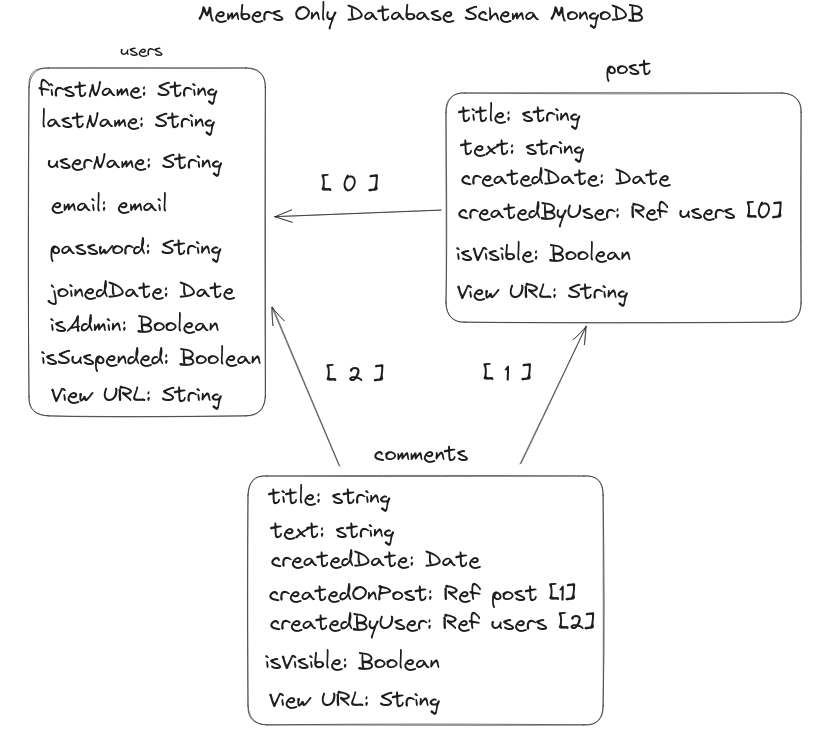
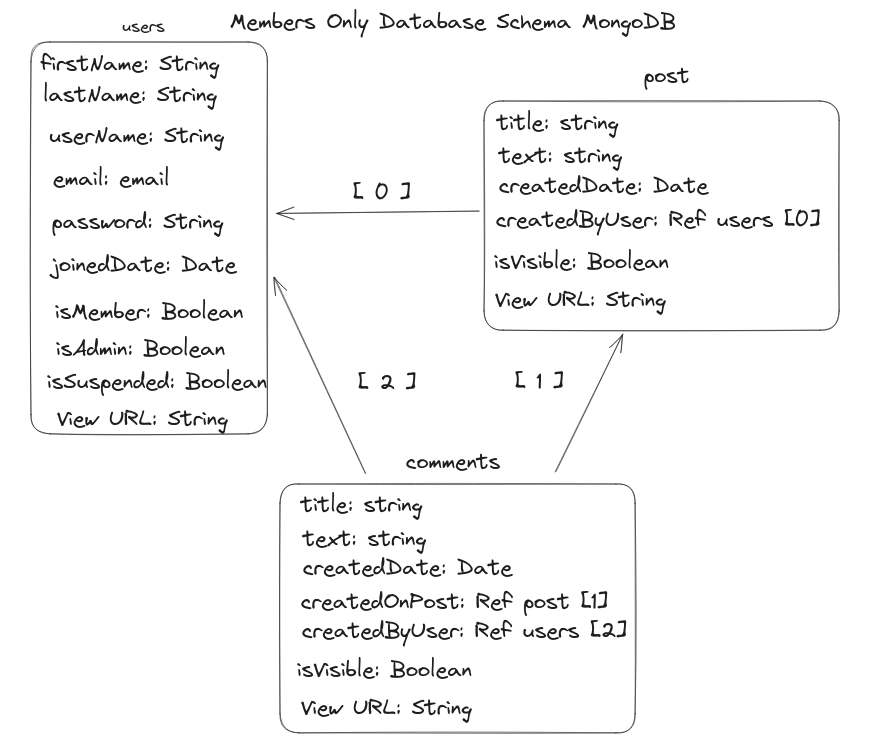
Add loginController and clean up code

Changed region(s): [[0.0302, 0.0, 0.965, 0.5897], [0.3016, 0.5587, 0.7539, 0.9933], [0.3619, 0.4966, 0.4825, 0.5897]]

diff --git a/controller/loginController.js b/controller/loginController.js
@@ -32,29 +32,31 @@ exports.loginPost = asyncHandler(async function (req, res, next) {
     .escape();
 
   passport.authenticate("local", {
-    successRedirect: "/",
-    failureRedirect: "/",
+    successRedirect: "/dashboard",
+    failureRedirect: "/login",
   });
 
-  // Extract the validation errors from a request.
-  const errors = validationResult(req);
+  // // Extract the validation errors from a request.
+  // const errors = validationResult(req);
 
-  const user = {
-    username: req.body.username,
-    password: req.body.username,
-  };
+  // const user = {
+  //   username: req.body.username,
+  //   password: req.body.username,
+  // };
 
-  if (!errors.isEmpty()) {
-    // There are errors. Render the form again with sanitized values/error messages.
-    res.render("login", {
-      title: "Log in Failed",
-      text: "Please review and correct the following issues before re-submitting the form:",
-      oldUser: newUser,
-      errors: errors.array(),
-    });
-    return;
-  } else
-    res.render("login", {
-      title: "Log in Failed",
-    });
+  // passport.authenticate("local", {
+  //   successRedirect: "/login",
+  //   failureRedirect: "/",
+  // });
+
+  // if (!errors.isEmpty()) {
+  //   // There are errors. Render the form again with sanitized values/error messages.
+  //   res.render("login", {
+  //     title: "Log in Failed",
+  //     text: "Log in Failed",
+  //     oldUser: newUser,
+  //     errors: errors.array(),
+  //   });
+  //   return;
+  // }
 });

diff --git a/app.js b/app.js
@@ -22,11 +22,12 @@ const mongoInit = process.env.MONGODB_INIT;
 const cluster = process.env.MONGODB_CLUSTER;
 const clusterID = process.env.MONGODB_CLUSTERID;
 const database = process.env.MONGODB_DB;
-const host = process.env.MONGODB_HOST;
-const user = encodeURIComponent(process.env.MONGODB_USER);
-const pass = encodeURIComponent(process.env.MONGODB_PASS);
+const mongoHost = process.env.MONGODB_HOST;
+const mongoUser = encodeURIComponent(process.env.MONGODB_USER);
+const mongoPass = encodeURIComponent(process.env.MONGODB_PASS);
 
-const mongoDB = process.env.MONGODB_URI || `${mongoInit}${user}:${pass}@${cluster}${clusterID}${database}${host}`;
+const mongoDB =
+  process.env.MONGODB_URI || `${mongoInit}${mongoUser}:${mongoPass}@${cluster}${clusterID}${database}${mongoHost}`;
 
 async function main(db) {
   await mongoose.connect(db);
@@ -66,7 +67,7 @@ passport.serializeUser((user, done) => {
 
 passport.deserializeUser(async (id, done) => {
   try {
-    const user = await User.findById(id);
+    const user = await UserCollection.findById(id);
     done(null, user);
   } catch (err) {
     done(err);

diff --git a/routes/indexRoute.js b/routes/indexRoute.js
@@ -1,6 +1,6 @@
 const express = require("express");
 const router = express.Router();
-const userController = require("../controller/loginController");
+const loginController = require("../controller/loginController");
 
 /* GET home page. */
 router.get("/", function (req, res, next) {
@@ -8,13 +8,21 @@ router.get("/", function (req, res, next) {
 });
 
 /* GET login */
-router.get("/login", userController.loginGet);
+router.get("/login", loginController.loginGet);
 
 /* GET login */
-router.post("/login", function (req, res, next) {
-  res.render("login", {
-    title: "Log in",
+router.post("/login", loginController.loginPost);
+
+router.get("/log-out", (req, res, next) => {
+  req.logout((err) => {
+    if (err) {
+      return next(err);
+    }
+    res.redirect("/");
   });
 });
+
+/* GET login */
+router.get("/dashboard", (req, res) => res.render("dashboard"));
 
 module.exports = router;

diff --git a/models/userModel.js b/models/userModel.js
@@ -8,6 +8,7 @@ const UserSchema = new Schema({
   email: { type: String, required: true, unique: true },
   password: { type: String, required: true },
   joinDate: { type: Date },
+  isMember: { type: Boolean },
   isAdmin: { type: Boolean },
   isSuspended: { type: Boolean },
 });
